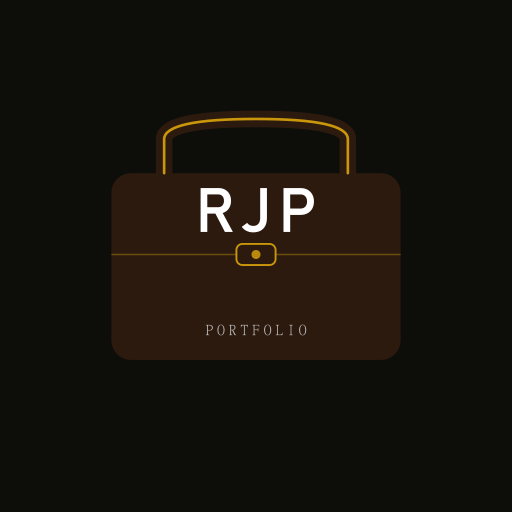
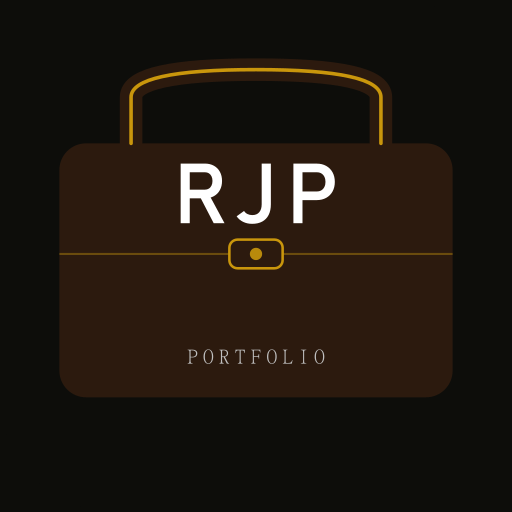
Updates

Changed region(s): [[0.0938, 0.0938, 0.9062, 0.7812], [0.4062, 0.625, 0.5312, 0.6562], [0.5625, 0.625, 0.5938, 0.6562]]

diff --git a/index.html b/index.html
@@ -2,8 +2,8 @@
 <html lang="en">
   <head>
     <meta charset="UTF-8" />
[2 lines of base64/hex data omitted]
+    <link rel="icon" type="image/png" href="/digital_business_card/favicon.png" />
[1 lines of base64/hex data omitted]
     <link rel="manifest" href="/digital_business_card/manifest.json" />
     <meta name="viewport" content="width=device-width, initial-scale=1.0" />
     <meta name="description" content="Roody Pointjour — Embedded Systems & ML Engineer" />